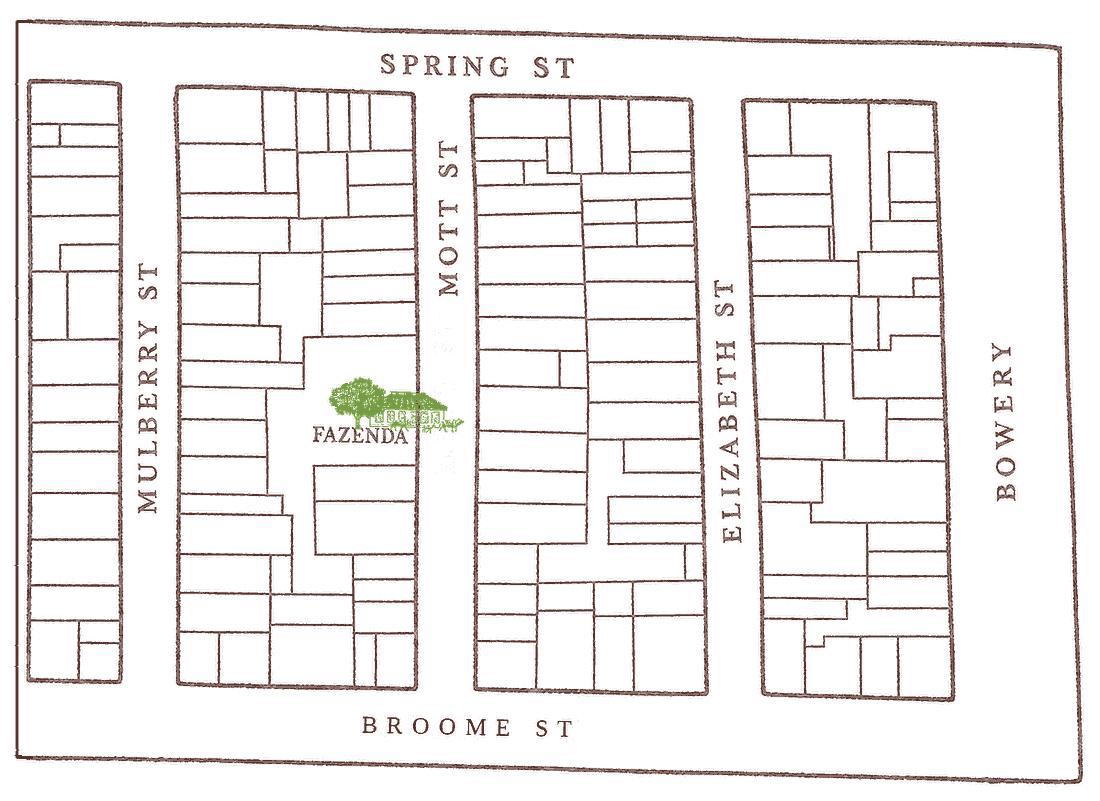
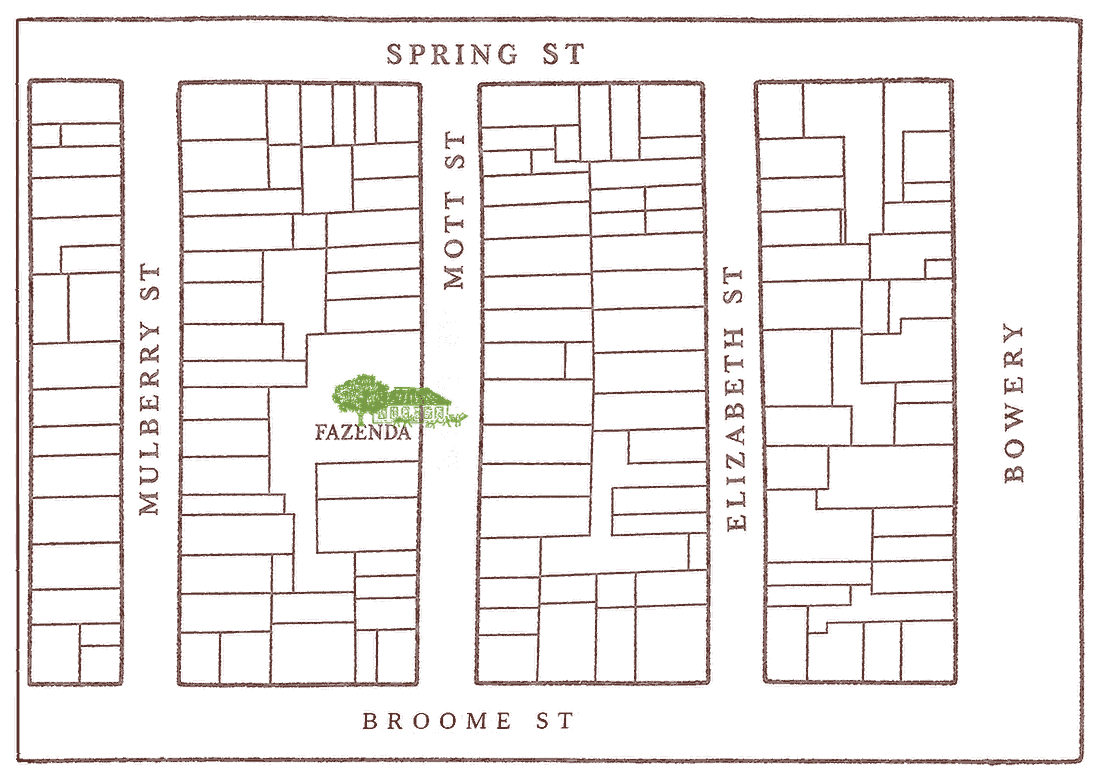
sep12: update the map artwork, recoloured to tobacco

Changed region(s): [[0.0, 0.0, 0.9891, 0.9859]]

diff --git a/app/sep12/page.tsx b/app/sep12/page.tsx
@@ -120,7 +120,7 @@ export default function Sep12() {
             src="/map.png"
             alt="Map showing Fazenda on Mott Street, between Spring and Broome"
             width={1100}
-            height={801}
+            height={779}
             priority
             className="w-full h-auto"
           />
